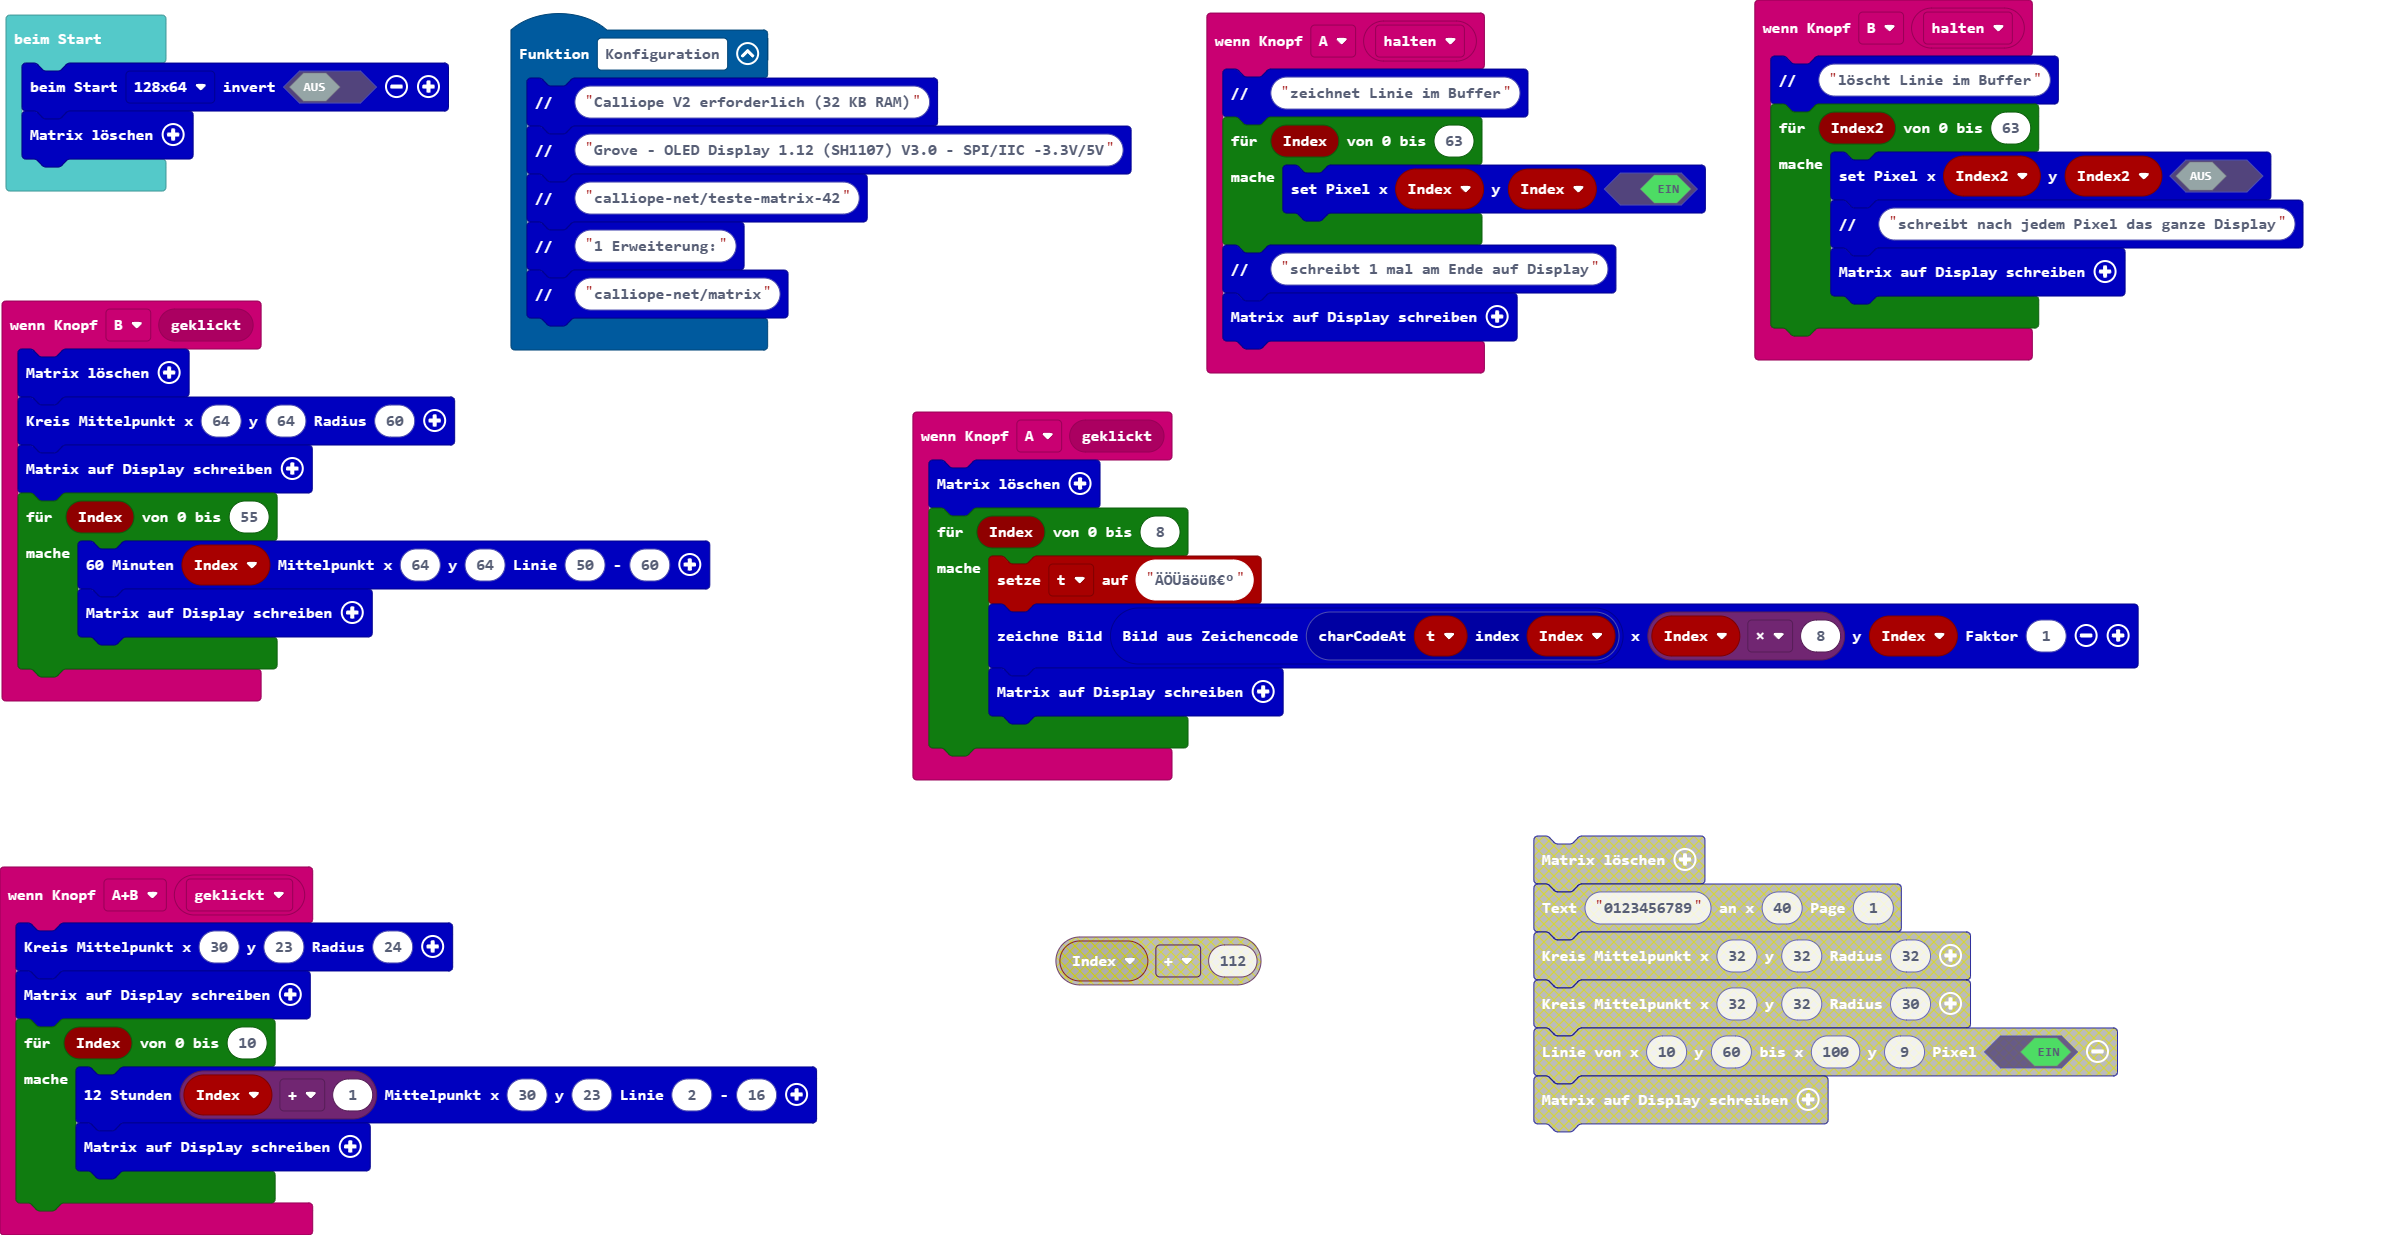
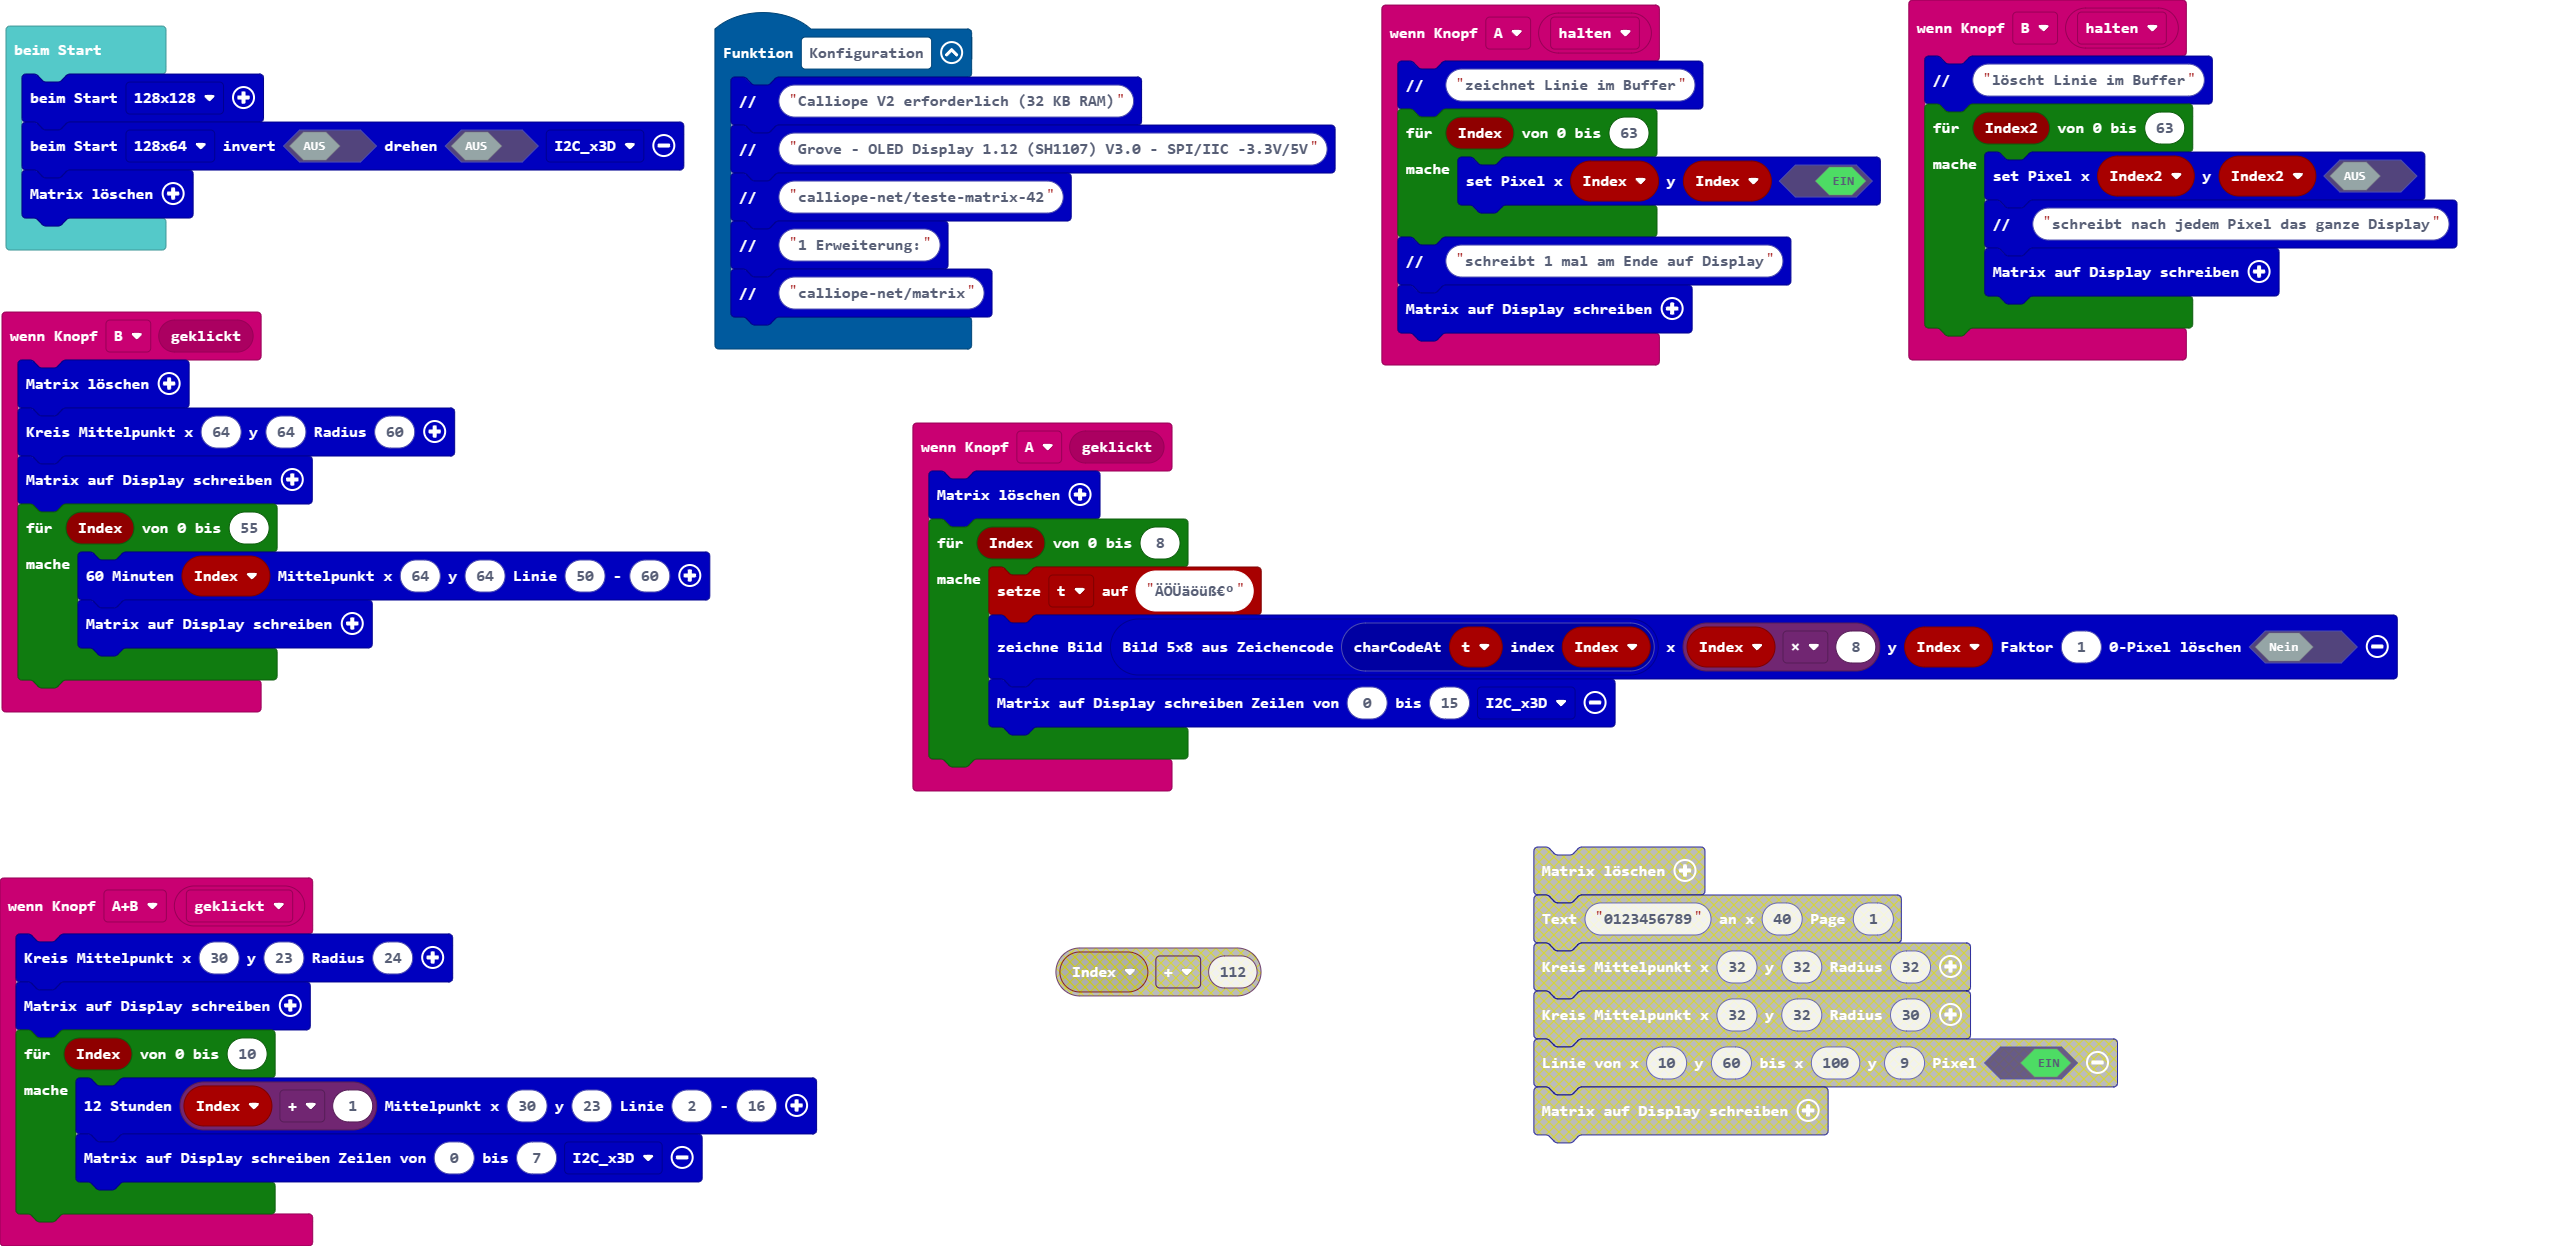
Aktualisiere pxt.json, main.blocks, main.ts

diff --git a/main.ts b/main.ts
@@ -3,15 +3,15 @@ input.onButtonEvent(Button.AB, ButtonEvent.Click, function () {
     matrix.writeDisplay()
     for (let Index = 0; Index <= 10; Index++) {
         matrix.hour_mark(Index + 1, 30, 23, 2, 16)
-        matrix.writeDisplay()
+        matrix.writeDisplay(0, 7, matrix.eI2C.I2C_x3D)
     }
 })
 input.onButtonEvent(Button.A, input.buttonEventClick(), function () {
     matrix.clearMatrix()
     for (let Index = 0; Index <= 8; Index++) {
         t = "ÄÖÜäöüß€°"
-        matrix.writeImage(matrix.writeCharImage(matrix.charCodeAt(t, Index)), Index * 8, Index, 1)
-        matrix.writeDisplay()
+        matrix.writeImage(matrix.writeCharImage(matrix.charCodeAt(t, Index)), Index * 8, Index, 1, false)
+        matrix.writeDisplay(0, 15, matrix.eI2C.I2C_x3D)
     }
 })
 input.onButtonEvent(Button.B, input.buttonEventClick(), function () {
@@ -47,5 +47,6 @@ function Konfiguration () {
     matrix.comment("calliope-net/matrix")
 }
 let t = ""
-matrix.init(matrix.ePages.y64, false)
+matrix.init(matrix.ePages.y128)
+matrix.init(matrix.ePages.y64, false, false, matrix.eI2C.I2C_x3D)
 matrix.clearMatrix()
